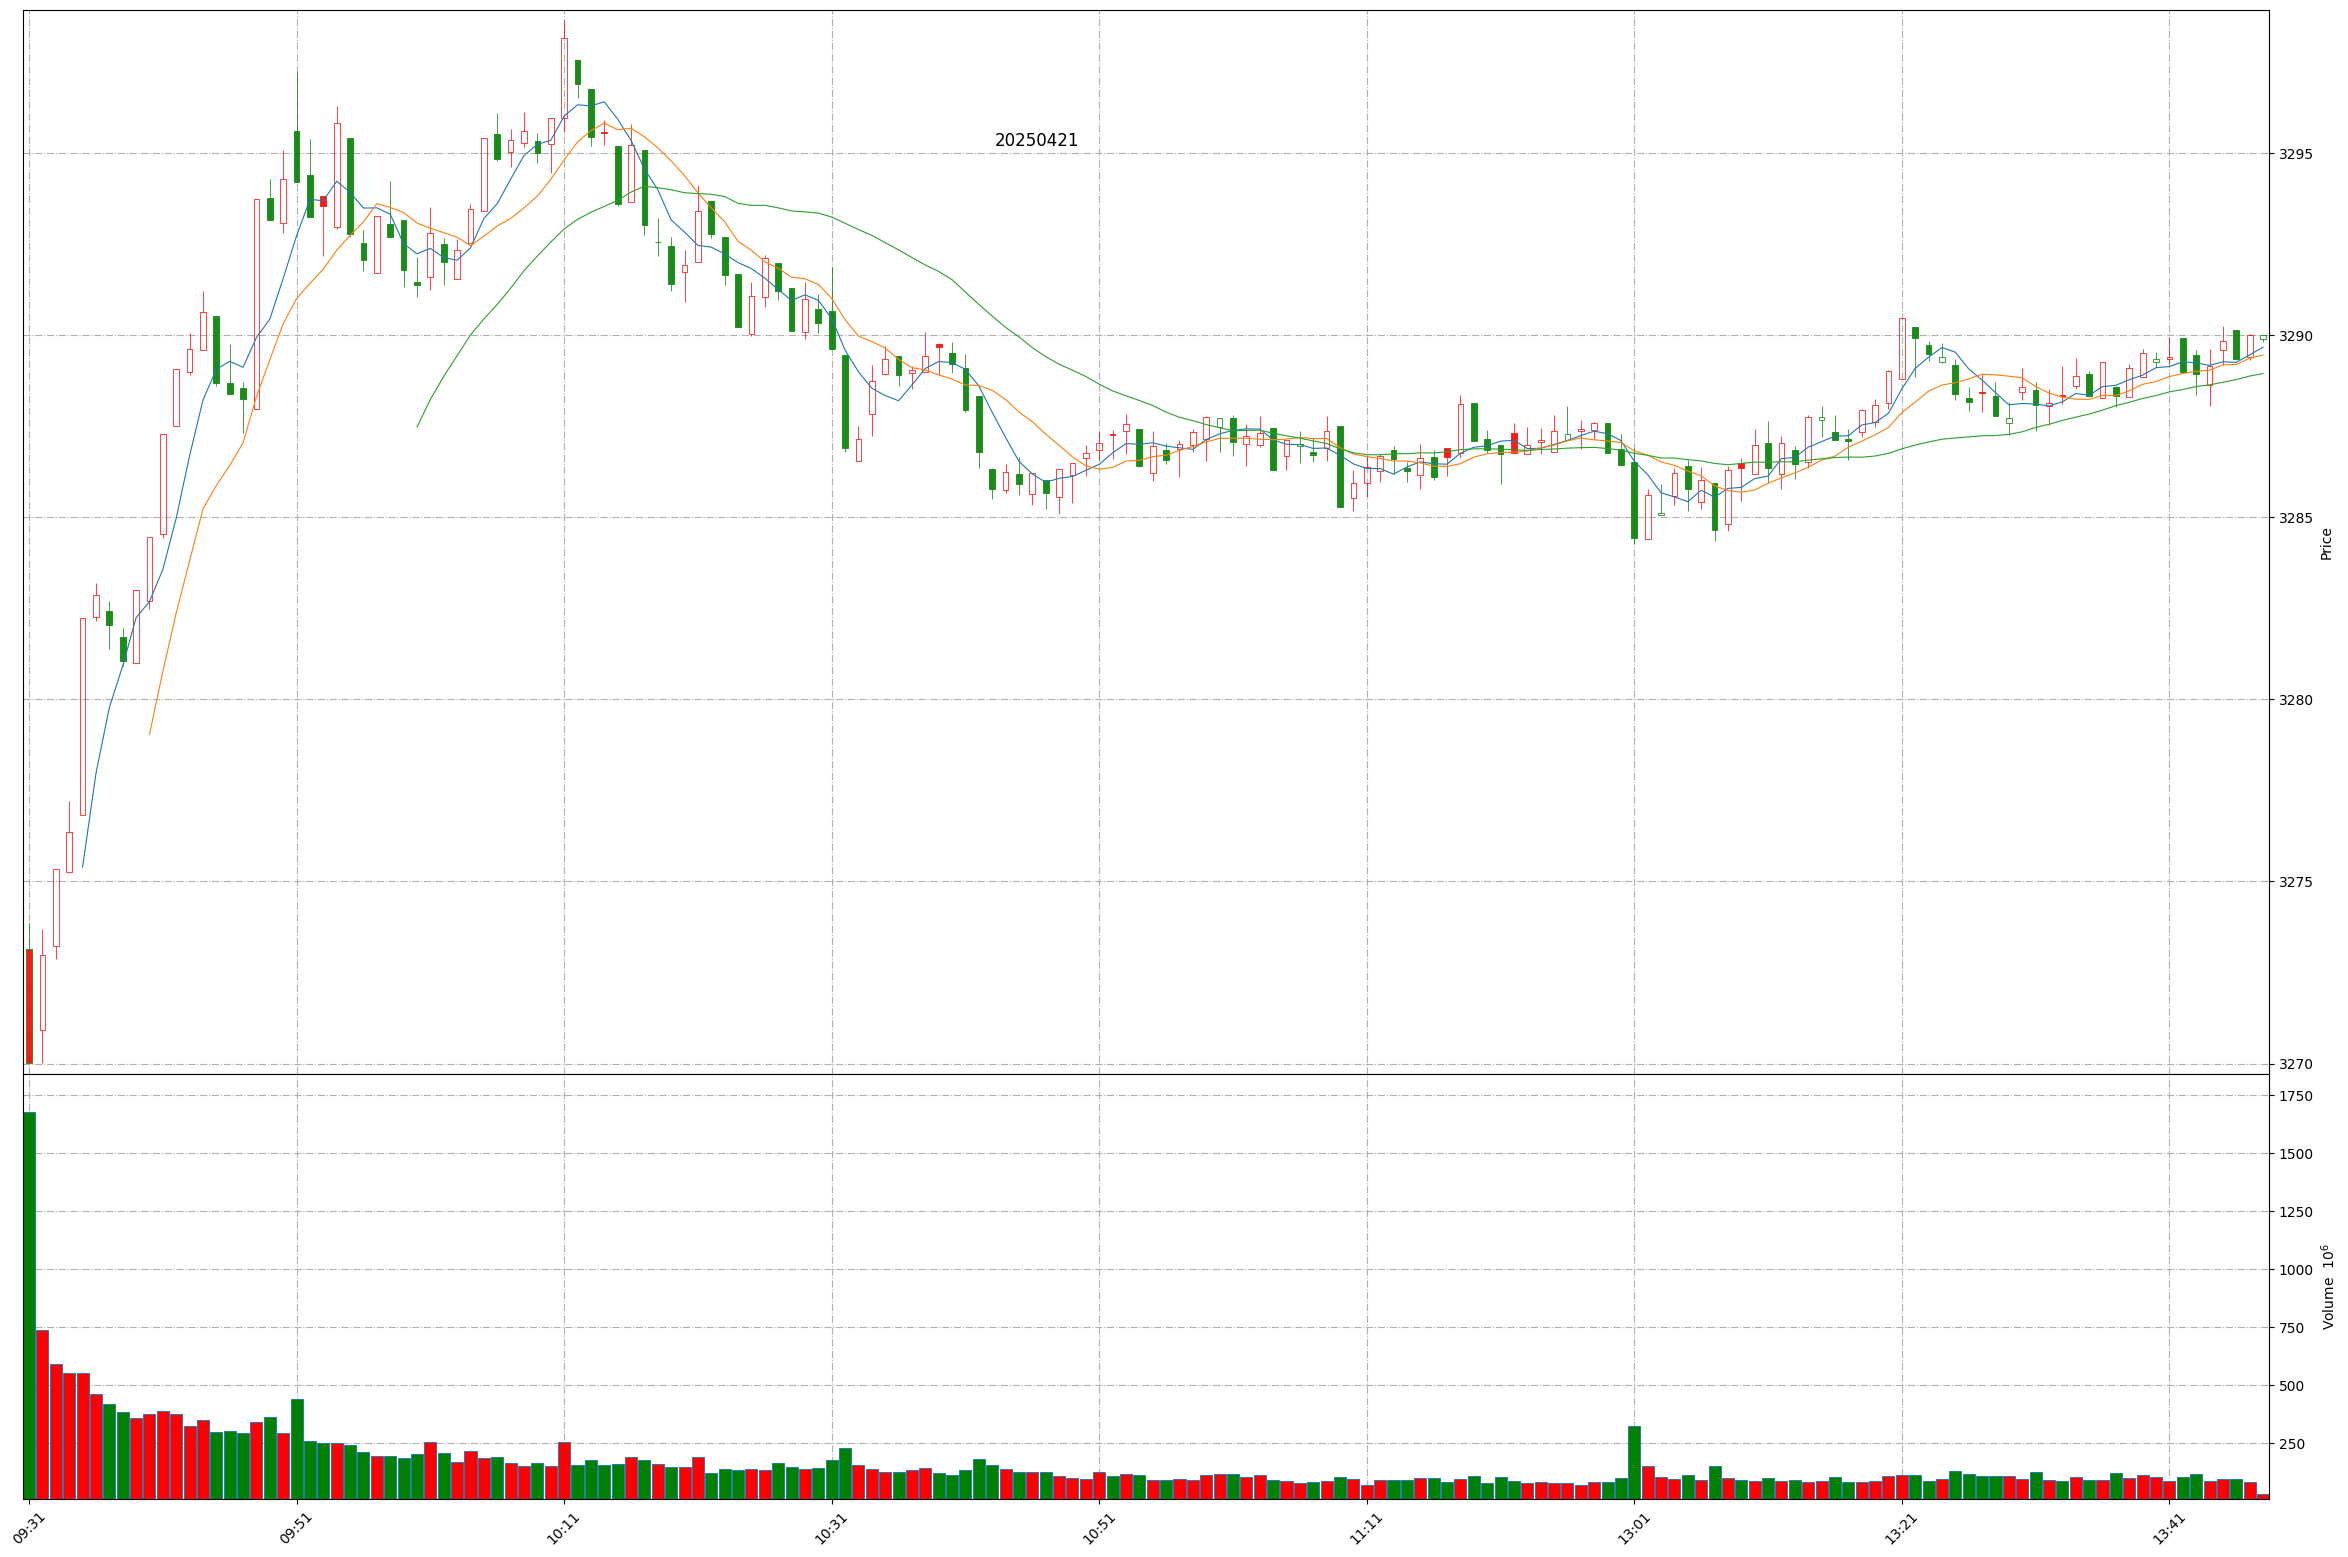
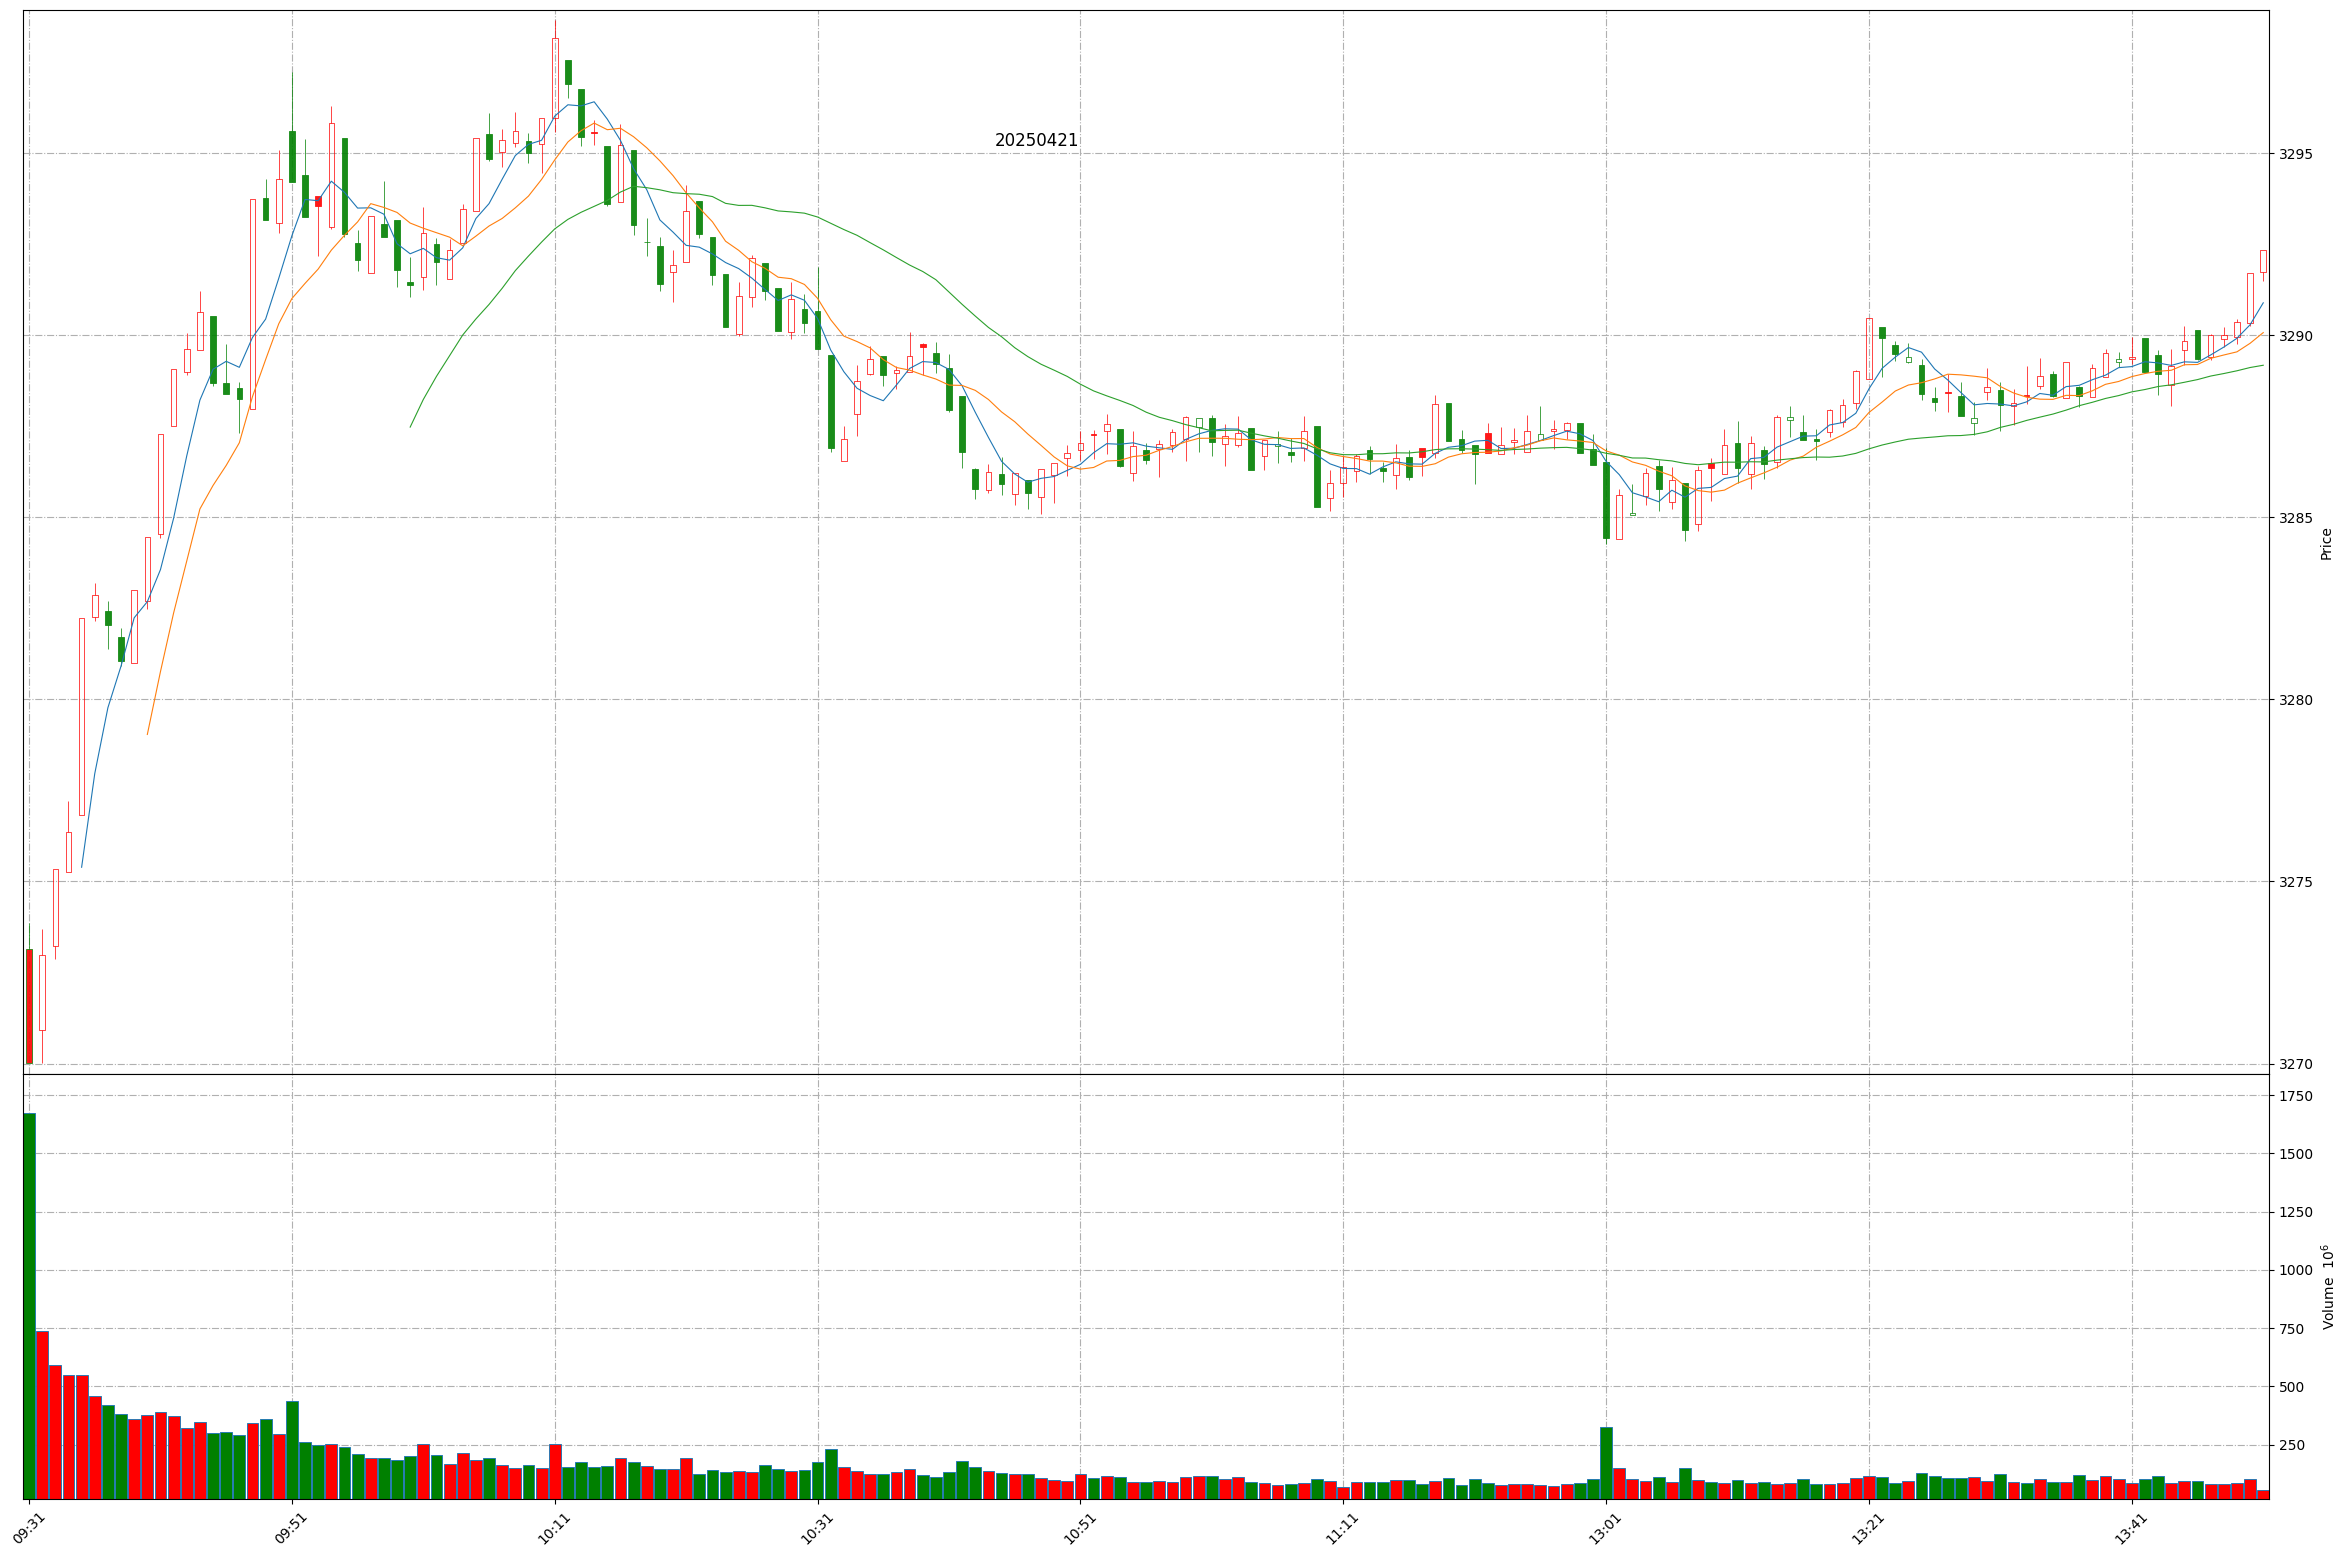
Github action update at 2025-04-21 13:50:49.

Changed region(s): [[0.0311, 0.0308, 0.9638, 0.4624], [0.0311, 0.894, 0.9638, 0.9865]]

diff --git a/README.md b/README.md
@@ -1,11 +1,11 @@
 
 # Daily-A-share-market-quotes 每日 A 股指数（5min 更新）- 20250421
 
-### 上证指数 20250421 13:47
+### 上证指数 20250421 13:50
 ![](./fig/2025/4/20250421-sh000001.png)
 
-### 深证成指 20250421 13:47
+### 深证成指 20250421 13:50
 ![](./fig/2025/4/20250421-sz399001.png)
 
-### 北证50 20250421 13:47
+### 北证50 20250421 13:50
 ![](./fig/2025/4/20250421-bj899050.png)
